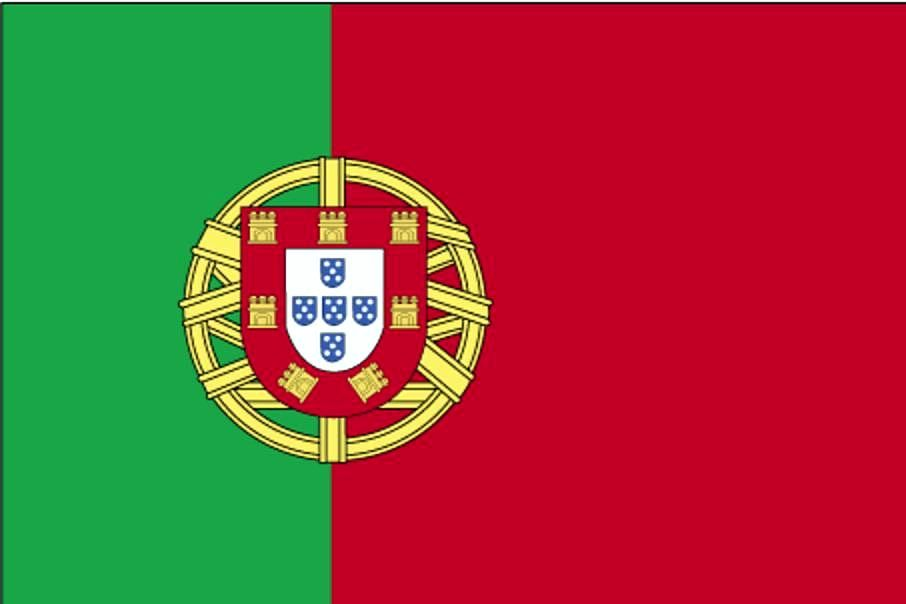
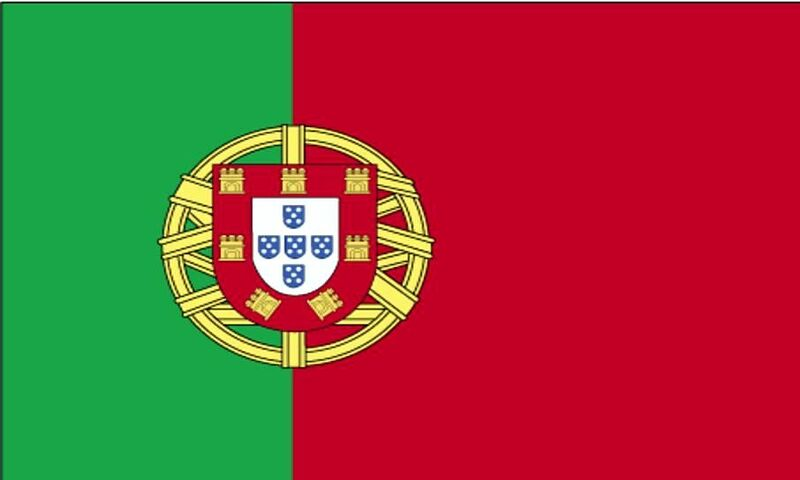
change size of flags

diff --git a/README.md b/README.md
@@ -1,4 +1,4 @@
-# userguide v1.2.3
+# userguide v1.2.4
 
 ## Deployment
 
